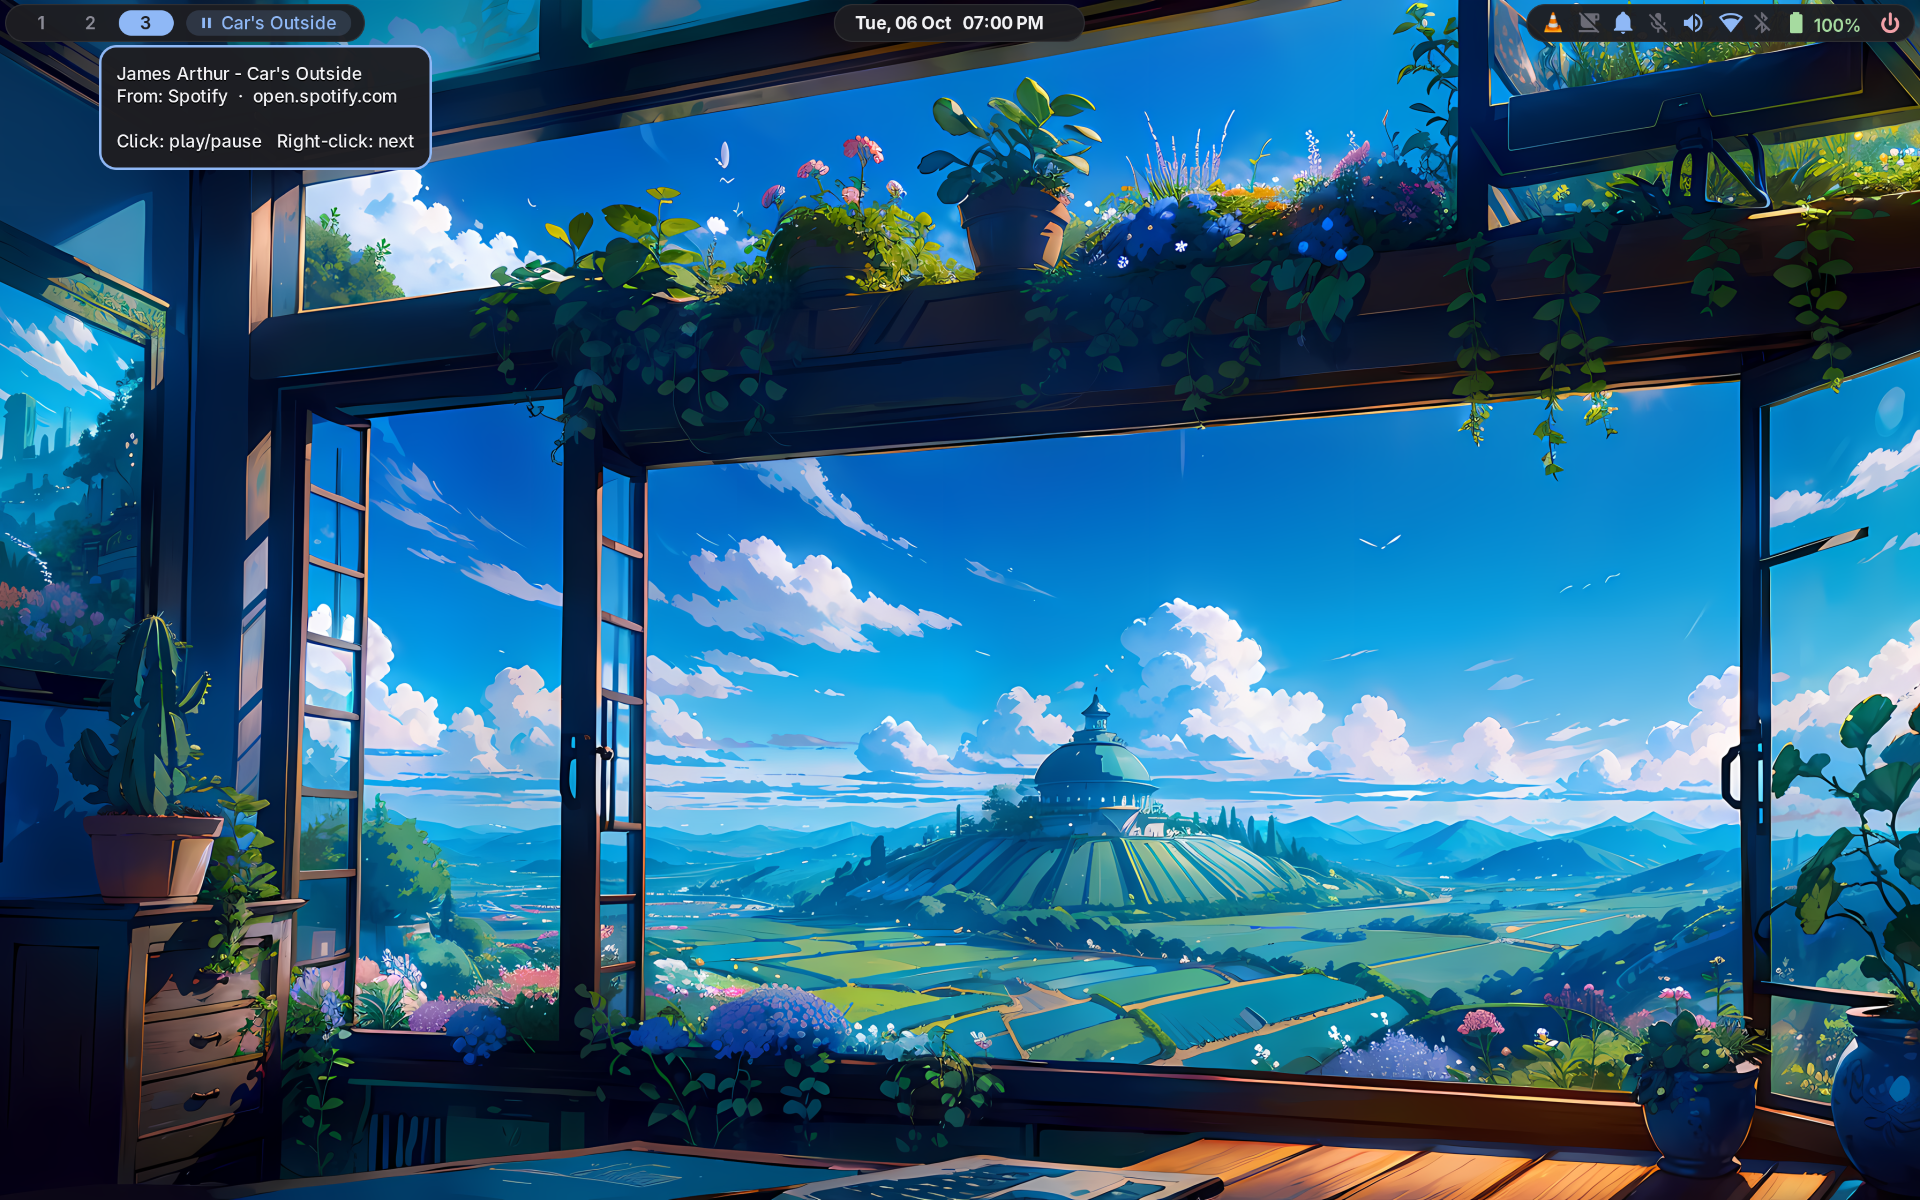
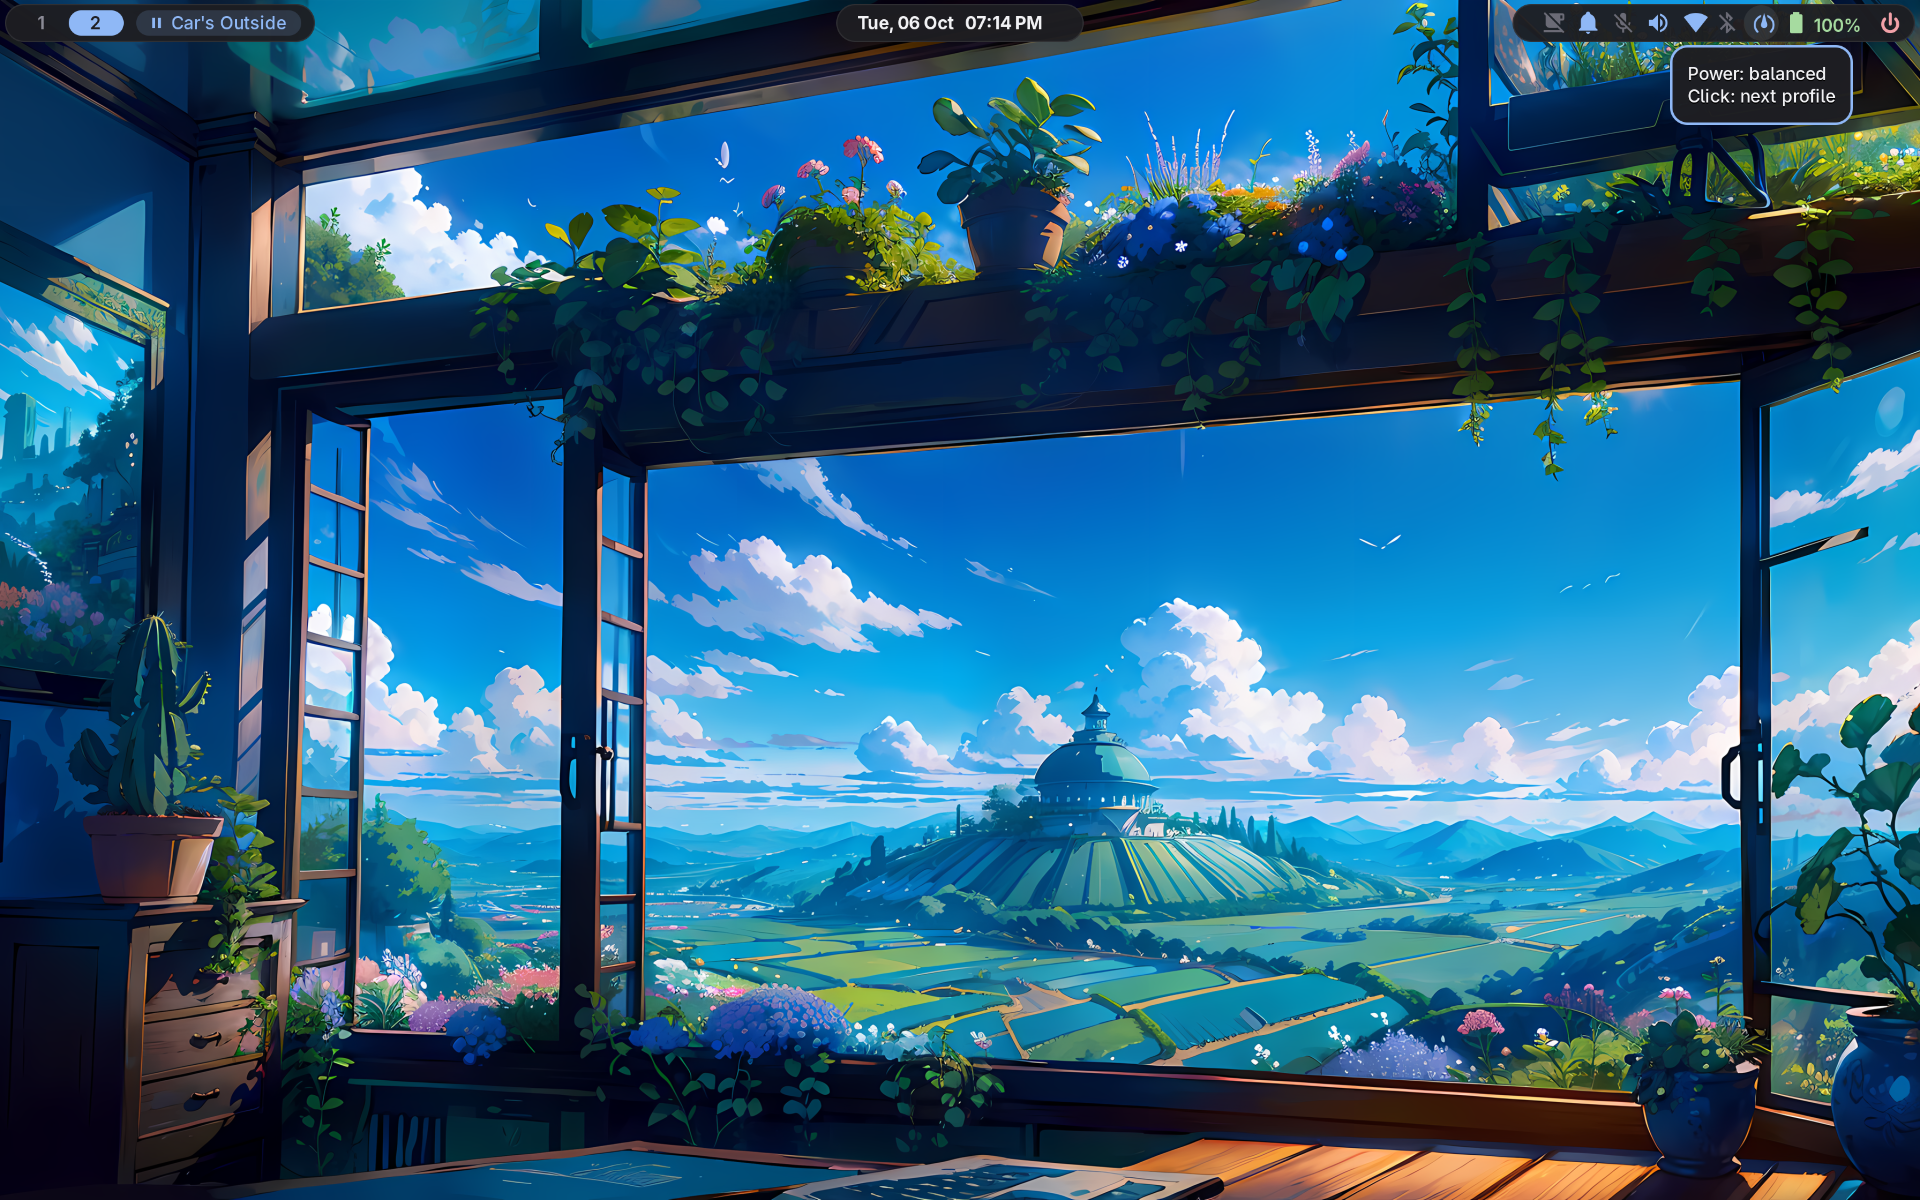
Power profiles, distro-neutral README

Changed region(s): [[0.0312, 0.0, 0.25, 0.1542], [0.7812, 0.0, 0.9688, 0.1233], [0.4375, 0.0, 0.5312, 0.0308]]

diff --git a/waybar/.config/waybar/style.css b/waybar/.config/waybar/style.css
@@ -74,8 +74,8 @@ window#waybar {
 #workspaces button.urgent { color: @pink; }
 
 /* Status icons - one font, one size */
-#custom-awake, #custom-dnd,
-#pulseaudio, #network, #bluetooth, #battery, #custom-power {
+#custom-awake, #custom-dnd, #pulseaudio, #network, #bluetooth,
+#power-profiles-daemon, #battery, #custom-power {
     font-family: "JetBrainsMono Nerd Font";
     font-size: 20px;
     padding: 0 8px;
@@ -83,7 +83,8 @@ window#waybar {
 /* Two colours: blue = on, grey = off (every crossed-out icon is grey).
    Battery and power keep their own. */
 #custom-awake.on, #custom-dnd,
-#pulseaudio, #network, #bluetooth { color: @accent; }
+#pulseaudio, #network, #bluetooth,
+#power-profiles-daemon            { color: @accent; }
 #custom-awake, #custom-dnd.on     { color: @off; }
 #battery      { color: @green; font-family: "Adwaita Sans"; font-size: 14px; }
 #custom-power { color: @pink; font-size: 17px; }   /* ⏻ draws larger; 17px matches the rest */
@@ -113,9 +114,10 @@ window#waybar {
 
 /* Hover: a soft pill on everything clickable, like the workspace buttons */
 #custom-awake, #custom-dnd, #pulseaudio, #network, #bluetooth,
-#battery, #custom-power { border-radius: 999px; }
+#power-profiles-daemon, #battery, #custom-power { border-radius: 999px; }
 #custom-awake:hover, #custom-dnd:hover, #pulseaudio:hover, #network:hover,
-#bluetooth:hover, #battery:hover, #custom-power:hover { background: @hover; }
+#bluetooth:hover, #power-profiles-daemon:hover, #battery:hover,
+#custom-power:hover { background: @hover; }
 
 tooltip {
     background: @tooltip_bg;

diff --git a/README.md b/README.md
@@ -1,7 +1,7 @@
 # dotfiles
 
-A calm, keyboard-first [niri](https://github.com/YaLTeR/niri) desktop for
-Fedora that sits alongside GNOME instead of replacing it. Dark GNOME greys,
+A calm, keyboard-first [niri](https://github.com/YaLTeR/niri) desktop that
+sits alongside GNOME instead of replacing it. Dark GNOME greys,
 one blue accent, rounded "island" bars, and GNOME's own Settings for Wi-Fi,
 Bluetooth and sound. Style inspired by
 [saneAspect](https://www.youtube.com/@saneAspect).
@@ -19,7 +19,7 @@ Bluetooth and sound. Style inspired by
 - **Bar:** a top bar in three islands. Workspaces and now playing on the
   left, the clock and a calendar in the centre, status icons on the right.
 - **System keys:** one easy-to-remember set, `Mod + Alt + <letter>`, for
-  Wi-Fi, Bluetooth, sound, do not disturb, lock, power and more.
+  Wi-Fi, Bluetooth, sound, power profiles, do not disturb, lock and more.
 - **GNOME underneath:** no extra Wi-Fi, Bluetooth or volume apps. Clicking
   the bar opens the matching GNOME Settings page, and clicking again closes it.
 - **Matching look everywhere:** the launcher, terminal, notifications, lock
@@ -30,9 +30,10 @@ Bluetooth and sound. Style inspired by
 
 ## Before you start
 
-- **Fedora Workstation (GNOME).** Tested on Fedora 44 with niri 26.04. GNOME
-  must stay installed, because Settings, Files and the GNOME apps come from
-  it. You can still log in to plain GNOME whenever you like.
+- **Any Linux distro with GNOME.** I use and test it on Fedora 44 with niri
+  26.04, but nothing in it is Fedora-only. GNOME must stay installed, because
+  Settings, Files and the GNOME apps come from it. You can still log in to
+  plain GNOME whenever you like.
 - **A laptop is assumed.** The bar shows battery, and the brightness keys are
   bound. On a desktop, see [Hardware-specific bits](#hardware-specific-bits).
 - **Some parts are specific to my laptop**, an Acer Aspire A514-56GM with
@@ -41,7 +42,7 @@ Bluetooth and sound. Style inspired by
 
 ## Install
 
-**1. Install the packages.**
+**1. Install the packages.** On Fedora:
 
 ```sh
 sudo dnf install niri waybar fuzzel alacritty mako swaylock swayidle swaybg \
@@ -49,10 +50,28 @@ sudo dnf install niri waybar fuzzel alacritty mako swaylock swayidle swaybg \
     brightnessctl ImageMagick libnotify adwaita-sans-fonts stow git
 ```
 
+On another distro, install the same programs with its package manager.
+Names are mostly the same, with a few exceptions:
+
+| Program | What it's for | Notes |
+| --- | --- | --- |
+| `niri`, `waybar`, `fuzzel`, `alacritty`, `mako` | Window manager, bar, launcher, terminal, notifications | |
+| `swaylock`, `swayidle`, `swaybg`, `wlogout` | Lock screen, idle timers, wallpaper, power menu | `wlogout` is in the AUR on Arch |
+| `mate-polkit` | Password prompts for admin actions | Any polkit agent works; change its line in the niri config |
+| `wl-clipboard`, `cliphist` | Clipboard and clipboard history | |
+| `wlsunset` | Night light | |
+| `playerctl`, `brightnessctl` | Media keys, brightness keys | |
+| `ImageMagick`, `libnotify` | Blurred lock screen, popups | `imagemagick` on Arch and Debian |
+| Adwaita Sans font | Interface text | `adwaita-fonts` on Arch |
+| `stow`, `git` | Installing these dotfiles | |
+| `xwayland-satellite` | Older X11 apps | Usually pulled in with niri |
+| `power-profiles-daemon` or `tuned-ppd` | Power profiles | Most GNOME installs already have one |
+
 **2. Install the icon font.** Download
 [JetBrainsMono Nerd Font](https://github.com/ryanoasis/nerd-fonts/releases/latest/download/JetBrainsMono.zip),
-unzip it into `~/.local/share/fonts/`, then run `fc-cache -f`. Without it,
-the bar's icons show up as empty boxes.
+unzip it into `~/.local/share/fonts/`, then run `fc-cache -f`. Some distros
+package it (`ttf-jetbrains-mono-nerd` on Arch). Without it, the bar's icons
+show up as empty boxes.
 
 **3. Link the configs.** Each folder in this repo is a
 [GNU Stow](https://www.gnu.org/software/stow/) package. Stow links its files
@@ -78,11 +97,16 @@ the screenshots is typecraft's
 [`nice-blue-background.png`](https://github.com/typecraft-dev/dotfiles/tree/master/backgrounds/.config/backgrounds).
 
 **5. Use GNOME's default apps in niri.** Without this, images and PDFs may
-open in the wrong app:
+open in the wrong app. If your distro has
+`/usr/share/applications/gnome-mimeapps.list` (Fedora does), link it for
+niri:
 
 ```sh
 sudo ln -s /usr/share/applications/gnome-mimeapps.list /usr/share/applications/niri-mimeapps.list
 ```
+
+If that file doesn't exist, skip this step and set default apps in GNOME
+Settings → Apps → Default Apps.
 
 **6. Log in.** Log out, choose **niri** on the login screen, and log in.
 Press `Mod + Shift + /` any time to see every key.
@@ -122,6 +146,7 @@ Most are toggles: press again to undo.
 | `Mod + Alt + S` | Sound settings |
 | `Mod + Alt + D` | Do not disturb |
 | `Mod + Alt + K` | Keep awake (don't lock when idle) |
+| `Mod + Alt + E` | Next power profile: power saver, balanced, performance |
 | `Mod + Alt + N` | Night light |
 | `Mod + Alt + T` | Switch apps between light and dark |
 | `Mod + Alt + C` | Clear all notifications |
@@ -149,7 +174,7 @@ clipboard.
 | --- | --- |
 | **Left** | Workspaces · now playing (click: play/pause, right-click: next) |
 | **Centre** | Date and time (hover: calendar, scroll: change month, click: back to today) · current window |
-| **Right** | Tray · keep awake · do not disturb · microphone · volume · Wi-Fi · Bluetooth · battery · power |
+| **Right** | Tray · keep awake · do not disturb · microphone · volume · Wi-Fi · Bluetooth · power profile · battery · power |
 
 Hover over any icon to see what its clicks do. The colours follow one rule:
 **blue means on, grey means off**. Every crossed-out icon (muted,
@@ -242,6 +267,7 @@ Helper commands, which you can also run yourself in a terminal:
 | `powermenu` | Open or close the power menu |
 | `volume`, `brightness` | Change volume or brightness in 5% steps and show the popup |
 | `keep-awake [toggle]` | Show or switch keep-awake |
+| `power-profile [name]` | Switch to the next power profile, or to `power-saver`, `balanced` or `performance` |
 | `dnd-toggle`, `dnd-status` | Switch or show do not disturb |
 | `settings-panel <page>` | Open or close a GNOME Settings page: `wifi`, `bluetooth`, `sound`, `power` |
 | `idle-watch [awake]` | The idle timers, started by niri at login |
@@ -254,7 +280,14 @@ Helper commands, which you can also run yourself in a terminal:
 - **`stow` reports a conflict:** you already have that config. Move it away
   and run `stow` again.
 - **Settings keys or bar clicks do nothing:** GNOME Settings
-  (`gnome-control-center`) isn't installed. It comes with Fedora Workstation.
+  (`gnome-control-center`) isn't installed. Install it with your package
+  manager; it comes with any full GNOME install.
+- **Power profile icon is missing or does nothing:** neither
+  `power-profiles-daemon` nor `tuned-ppd` is running. Install one and enable
+  its service.
+- **No password prompt when an app needs admin rights:** the polkit agent
+  didn't start. Check that `mate-polkit` is installed, or point the niri
+  config's polkit line at your distro's agent.
 - **Changes to `environment` or `idle-watch` don't apply:** both are read at
   login. Log out and back in.
 
